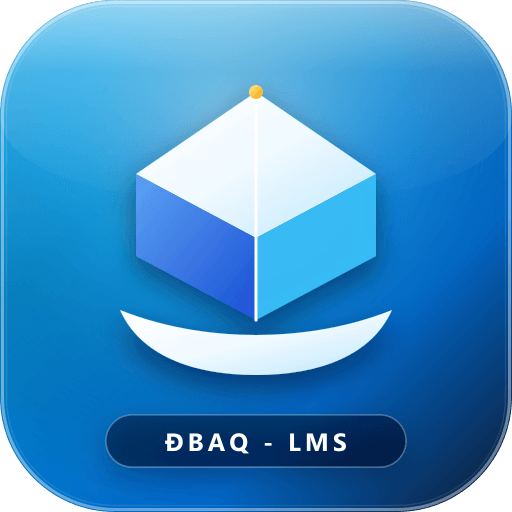
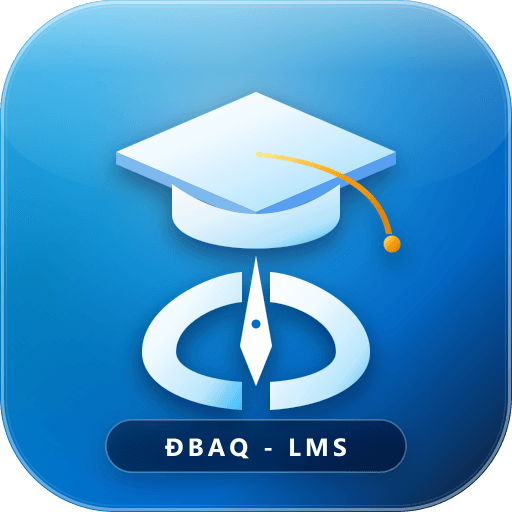
feat(branding): restore academic cap and pen nib emblem with modern ĐBAQ - LMS glass box and update preview card

Changed region(s): [[0.1875, 0.1562, 0.8125, 0.9375]]

diff --git a/scripts/generate-assets.js b/scripts/generate-assets.js
@@ -3,7 +3,7 @@ const path = require('path');
 const sharp = require('sharp');
 
 // =========================================================================
-// 1. ICON / LOGO (512x512) - MINIMALIST LUXURY "ĐBAQ - LMS"
+// 1. MASTER ICON (512x512) - ACADEMIC CAP + PEN NIB + ĐBAQ - LMS BOX
 // =========================================================================
 const logoSvg = `<svg xmlns="http://www.w3.org/2000/svg" viewBox="0 0 512 512" width="512" height="512">
   <defs>
@@ -15,42 +15,38 @@ const logoSvg = `<svg xmlns="http://www.w3.org/2000/svg" viewBox="0 0 512 512" w
       <stop offset="100%" stop-color="#0f172a"/>
     </linearGradient>
 
-    <!-- Top Radiant Light Aura -->
+    <!-- Top Radiant Ambient Glow -->
     <radialGradient id="topGlow" cx="45%" cy="25%" r="75%">
       <stop offset="0%" stop-color="#ffffff" stop-opacity="0.45"/>
       <stop offset="45%" stop-color="#38bdf8" stop-opacity="0.25"/>
       <stop offset="100%" stop-color="#000000" stop-opacity="0"/>
     </radialGradient>
 
-    <!-- Specular Highlight Arc -->
+    <!-- Glass Specular Highlight Arc -->
     <linearGradient id="glassSheen" x1="0%" y1="0%" x2="0%" y2="100%">
       <stop offset="0%" stop-color="#ffffff" stop-opacity="0.5"/>
       <stop offset="35%" stop-color="#ffffff" stop-opacity="0.15"/>
       <stop offset="100%" stop-color="#ffffff" stop-opacity="0"/>
     </linearGradient>
 
-    <!-- Metallic Platinum / Ice Gradient for Emblem -->
-    <linearGradient id="platGrad" x1="0%" y1="0%" x2="100%" y2="100%">
+    <!-- Metallic Emblem Platinum Gradient -->
+    <linearGradient id="emblemGrad" x1="0%" y1="0%" x2="100%" y2="100%">
       <stop offset="0%" stop-color="#ffffff"/>
-      <stop offset="50%" stop-color="#f0f9ff"/>
-      <stop offset="100%" stop-color="#bae6fd"/>
+      <stop offset="35%" stop-color="#f0f9ff"/>
+      <stop offset="75%" stop-color="#bae6fd"/>
+      <stop offset="100%" stop-color="#38bdf8"/>
     </linearGradient>
 
-    <!-- Facet Shadow Gradient -->
-    <linearGradient id="facetDark" x1="0%" y1="0%" x2="100%" y2="100%">
-      <stop offset="0%" stop-color="#60a5fa"/>
-      <stop offset="100%" stop-color="#1d4ed8"/>
-    </linearGradient>
-
-    <!-- Golden Spark Accent -->
-    <linearGradient id="goldAccent" x1="0%" y1="0%" x2="100%" y2="100%">
+    <!-- Golden Star & Tassel Gradient -->
+    <linearGradient id="goldGrad" x1="0%" y1="0%" x2="100%" y2="100%">
       <stop offset="0%" stop-color="#fef08a"/>
-      <stop offset="100%" stop-color="#f59e0b"/>
+      <stop offset="50%" stop-color="#f59e0b"/>
+      <stop offset="100%" stop-color="#d97706"/>
     </linearGradient>
 
     <!-- Soft Depth Shadow -->
     <filter id="iconDepth" x="-20%" y="-20%" width="140%" height="140%">
-      <feDropShadow dx="0" dy="12" stdDeviation="14" flood-color="#020617" flood-opacity="0.5"/>
+      <feDropShadow dx="0" dy="10" stdDeviation="12" flood-color="#020617" flood-opacity="0.5"/>
     </filter>
   </defs>
 
@@ -65,33 +61,40 @@ const logoSvg = `<svg xmlns="http://www.w3.org/2000/svg" viewBox="0 0 512 512" w
   <rect x="2.5" y="2.5" width="507" height="507" rx="112.5" fill="none" stroke="rgba(255,255,255,0.4)" stroke-width="3"/>
   <rect x="6.5" y="6.5" width="499" height="499" rx="108.5" fill="none" stroke="rgba(255,255,255,0.1)" stroke-width="1.5"/>
 
-  <!-- Minimalist High-End Geometric Emblem (The Crown of Knowledge / Prism AQ) -->
+  <!-- MAIN EMBLEM: Academic Mortarboard + Stylized Pen Nib & Knowledge Wings -->
   <g filter="url(#iconDepth)">
-    <!-- Central Modern Apex (Stylized Diamond Mortarboard & Rising Peak) -->
-    <!-- Center Peak -->
-    <polygon points="256,92 376,174 256,238 136,174" fill="url(#platGrad)" />
-    <!-- Left Facet -->
-    <polygon points="136,174 256,238 256,320 136,256" fill="url(#facetDark)" opacity="0.9" />
-    <!-- Right Facet -->
-    <polygon points="376,174 256,238 256,320 376,256" fill="#38bdf8" opacity="0.95" />
-    <!-- Central Vertical Accent Blade -->
-    <line x1="256" y1="92" x2="256" y2="320" stroke="#ffffff" stroke-width="3" stroke-linecap="round" />
+    <!-- Academic Mortarboard Rhombus Top -->
+    <polygon points="256,92 396,152 256,212 116,152" fill="url(#emblemGrad)" />
+    
+    <!-- Cap Rim/Underside depth -->
+    <polygon points="116,152 256,212 256,224 116,164" fill="#93c5fd" opacity="0.75" />
+    <polygon points="396,152 256,212 256,224 396,164" fill="#60a5fa" opacity="0.85" />
 
-    <!-- Modern Ribbon Wings uniting the base (Representing Open Book & Infinite Progress) -->
-    <path d="M 120 310 C 170 330 220 335 256 335 C 292 335 342 330 392 310 C 372 355 320 375 256 375 C 192 375 140 355 120 310 Z" fill="url(#platGrad)"/>
+    <!-- Cap Skullcap -->
+    <path d="M 172 184 Q 256 244 340 184 L 340 214 C 340 260 172 260 172 214 Z" fill="url(#emblemGrad)" opacity="0.95"/>
 
-    <!-- Subtle Golden Star Sparkle at Top Peak -->
-    <circle cx="256" cy="92" r="7" fill="url(#goldAccent)"/>
+    <!-- Academic Tassel with Golden Star Badge -->
+    <path d="M 256 152 Q 380 165 392 234 L 386 234 Q 374 170 256 156 Z" fill="url(#goldGrad)"/>
+    <circle cx="392" cy="244" r="8.5" fill="url(#goldGrad)"/>
 
-    <!-- CLEAN, MODERN BRAND TEXT: ĐBAQ - LMS -->
-    <!-- Pill Background for Text -->
-    <rect x="106" y="415" width="300" height="52" rx="26" fill="rgba(2, 6, 23, 0.45)" stroke="rgba(255, 255, 255, 0.25)" stroke-width="1.5"/>
-    <text x="256" y="451" text-anchor="middle" font-family="'Segoe UI', Arial, sans-serif" font-size="25" font-weight="800" letter-spacing="4" fill="#ffffff">ĐBAQ - LMS</text>
+    <!-- Open Book / Stylized Dynamic Wings (Representing A & Q) -->
+    <!-- Left Wing -->
+    <path d="M 142 352 C 142 306 208 274 242 272 L 242 302 C 218 304 176 322 176 352 C 176 370 210 380 242 382 L 242 410 C 180 406 142 382 142 352 Z" fill="url(#emblemGrad)"/>
+    <!-- Right Wing -->
+    <path d="M 370 352 C 370 306 304 274 270 272 L 270 302 C 294 304 336 322 336 352 C 336 370 302 380 270 382 L 270 410 C 332 406 370 382 370 352 Z" fill="url(#emblemGrad)"/>
+
+    <!-- Central Knowledge Pen Nib Spire -->
+    <polygon points="256,256 272,346 256,386 240,346" fill="#ffffff" />
+    <circle cx="256" cy="324" r="4.5" fill="#0066cc"/>
+
+    <!-- BEAUTIFUL LIQUID GLASS BOX: ĐBAQ - LMS -->
+    <rect x="106" y="420" width="300" height="52" rx="26" fill="rgba(2, 6, 23, 0.45)" stroke="rgba(255, 255, 255, 0.25)" stroke-width="1.5"/>
+    <text x="256" y="456" text-anchor="middle" font-family="'Segoe UI', Arial, sans-serif" font-size="25" font-weight="800" letter-spacing="4" fill="#ffffff">ĐBAQ - LMS</text>
   </g>
 </svg>`;
 
 // =========================================================================
-// 2. HORIZONTAL SOCIAL / ZALO PREVIEW (1200x630) - CLEAN, ELEGANT, LUXURY
+// 2. HORIZONTAL ZALO / SOCIAL PREVIEW CARD (1200x630)
 // =========================================================================
 const previewSvg = `<svg xmlns="http://www.w3.org/2000/svg" viewBox="0 0 1200 630" width="1200" height="630">
   <defs>
@@ -111,17 +114,11 @@ const previewSvg = `<svg xmlns="http://www.w3.org/2000/svg" viewBox="0 0 1200 63
       <stop offset="100%" stop-color="#000000" stop-opacity="0"/>
     </radialGradient>
 
-    <!-- Top Left Accent Glow -->
-    <radialGradient id="cornerAura" cx="15%" cy="15%" r="40%">
-      <stop offset="0%" stop-color="#38bdf8" stop-opacity="0.2"/>
-      <stop offset="100%" stop-color="#000000" stop-opacity="0"/>
-    </radialGradient>
-
-    <!-- App Icon Gradient -->
+    <!-- Mini Icon Background -->
     <linearGradient id="miniIconBg" x1="0%" y1="0%" x2="100%" y2="100%">
       <stop offset="0%" stop-color="#38bdf8"/>
-      <stop offset="35%" stop-color="#0284c7"/>
-      <stop offset="75%" stop-color="#0066cc"/>
+      <stop offset="30%" stop-color="#0284c7"/>
+      <stop offset="70%" stop-color="#0066cc"/>
       <stop offset="100%" stop-color="#0f172a"/>
     </linearGradient>
 
@@ -132,29 +129,28 @@ const previewSvg = `<svg xmlns="http://www.w3.org/2000/svg" viewBox="0 0 1200 63
       <stop offset="100%" stop-color="#bae6fd"/>
     </linearGradient>
 
-    <!-- Facet Gradients for mini emblem -->
-    <linearGradient id="miniPlat" x1="0%" y1="0%" x2="100%" y2="100%">
+    <linearGradient id="emblemMini" x1="0%" y1="0%" x2="100%" y2="100%">
       <stop offset="0%" stop-color="#ffffff"/>
       <stop offset="100%" stop-color="#bae6fd"/>
     </linearGradient>
-    <linearGradient id="miniFacet" x1="0%" y1="0%" x2="100%" y2="100%">
-      <stop offset="0%" stop-color="#60a5fa"/>
-      <stop offset="100%" stop-color="#1d4ed8"/>
+
+    <linearGradient id="goldStar" x1="0%" y1="0%" x2="100%" y2="100%">
+      <stop offset="0%" stop-color="#fef08a"/>
+      <stop offset="100%" stop-color="#f59e0b"/>
     </linearGradient>
 
     <!-- Soft Depth Shadow -->
     <filter id="cardShadow" x="-20%" y="-20%" width="140%" height="140%">
-      <feDropShadow dx="0" dy="18" stdDeviation="24" flood-color="#000000" flood-opacity="0.65"/>
+      <feDropShadow dx="0" dy="16" stdDeviation="22" flood-color="#000000" flood-opacity="0.65"/>
     </filter>
     <filter id="iconGlow" x="-30%" y="-30%" width="160%" height="160%">
-      <feDropShadow dx="0" dy="0" stdDeviation="20" flood-color="#0284c7" flood-opacity="0.55"/>
+      <feDropShadow dx="0" dy="0" stdDeviation="18" flood-color="#0284c7" flood-opacity="0.55"/>
     </filter>
   </defs>
 
   <!-- 1. Background -->
   <rect width="1200" height="630" fill="url(#ogBgGrad)"/>
   <rect width="1200" height="630" fill="url(#centerAura)"/>
-  <rect width="1200" height="630" fill="url(#cornerAura)"/>
 
   <!-- 2. Subtle Outer Apple Glass Border -->
   <rect x="20" y="20" width="1160" height="590" rx="36" fill="none" stroke="rgba(255,255,255,0.12)" stroke-width="2"/>
@@ -163,7 +159,7 @@ const previewSvg = `<svg xmlns="http://www.w3.org/2000/svg" viewBox="0 0 1200 63
   <!-- 3. CENTERED LUXURY BRAND COMPOSITION -->
   <g transform="translate(600, 75)" text-anchor="middle">
     
-    <!-- A. Centered Brand App Icon (124x124) -->
+    <!-- A. Centered Brand App Icon with Mortarboard + Pen (124x124) -->
     <g transform="translate(-62, 0)" filter="url(#iconGlow)">
       <!-- Squircle Base -->
       <rect width="124" height="124" rx="32" fill="url(#miniIconBg)"/>
@@ -172,39 +168,44 @@ const previewSvg = `<svg xmlns="http://www.w3.org/2000/svg" viewBox="0 0 1200 63
       <!-- Top Sheen -->
       <path d="M 0 32 C 0 14 14 0 32 0 L 92 0 C 110 0 124 14 124 32 C 124 48 95 55 62 55 C 29 55 0 48 0 32 Z" fill="#ffffff" opacity="0.35"/>
 
-      <!-- Mini Prism Emblem -->
-      <g transform="translate(62, 24)" filter="url(#cardShadow)">
-        <polygon points="0,0 28,19 0,34 -28,19" fill="url(#miniPlat)" />
-        <polygon points="-28,19 0,34 0,54 -28,39" fill="url(#miniFacet)" opacity="0.9" />
-        <polygon points="28,19 0,34 0,54 28,39" fill="#38bdf8" opacity="0.95" />
-        <line x1="0" y1="0" x2="0" y2="54" stroke="#ffffff" stroke-width="1.5" />
-        <!-- Ribbon Base -->
-        <path d="M -30 52 C -18 57 0 58 0 58 C 0 58 18 57 30 52 C 25 63 12 68 0 68 C -12 68 -25 63 -30 52 Z" fill="url(#miniPlat)"/>
-        <!-- Star spark -->
-        <circle cx="0" cy="0" r="2.5" fill="#f59e0b"/>
+      <!-- Mini Mortarboard + Pen inside icon -->
+      <g transform="translate(62, 22)">
+        <!-- Cap Top -->
+        <polygon points="0,0 34,15 0,30 -34,15" fill="url(#emblemMini)" />
+        <polygon points="-34,15 0,30 0,33 -34,18" fill="#93c5fd" />
+        <polygon points="34,15 0,30 0,33 34,18" fill="#60a5fa" />
+        <!-- Tassel Star -->
+        <circle cx="33" cy="22" r="2.5" fill="#f59e0b" />
+        <!-- Wings & Pen Spire -->
+        <path d="M -26 50 C -12 42 0 42 0 42 C 0 42 12 42 26 50 C 20 58 10 62 0 62 C -10 62 -20 58 -26 50 Z" fill="url(#emblemMini)" opacity="0.9"/>
+        <polygon points="0,34 3,54 0,60 -3,54" fill="#ffffff" />
       </g>
 
       <!-- Mini Monogram inside icon -->
-      <text x="62" y="109" text-anchor="middle" font-family="'Segoe UI', Arial, sans-serif" font-size="11" font-weight="900" letter-spacing="2" fill="#ffffff">ĐBAQ</text>
+      <text x="62" y="108" text-anchor="middle" font-family="'Segoe UI', Arial, sans-serif" font-size="11" font-weight="900" letter-spacing="1.5" fill="#ffffff">ĐBAQ</text>
     </g>
 
-    <!-- B. Main Monogram Title: ĐBAQ - LMS -->
-    <text x="0" y="215" font-family="'Segoe UI', Arial, sans-serif" font-size="64" font-weight="900" letter-spacing="4" fill="url(#titleMetal)" filter="url(#cardShadow)">
-      ĐBAQ - LMS
-    </text>
+    <!-- B. Main Monogram Title: ĐBAQ - LMS (In Beautiful Glass Box) -->
+    <g transform="translate(0, 195)">
+      <!-- Pill Box -->
+      <rect x="-190" y="-48" width="380" height="74" rx="37" fill="rgba(2, 6, 23, 0.55)" stroke="rgba(255, 255, 255, 0.28)" stroke-width="2" filter="url(#cardShadow)"/>
+      <text x="0" y="3" text-anchor="middle" font-family="'Segoe UI', Arial, sans-serif" font-size="44" font-weight="900" letter-spacing="5" fill="url(#titleMetal)">
+        ĐBAQ - LMS
+      </text>
+    </g>
 
     <!-- C. Full Educator Name -->
-    <text x="0" y="275" font-family="'Segoe UI', Arial, sans-serif" font-size="34" font-weight="700" letter-spacing="0.5" fill="#ffffff">
+    <text x="0" y="292" font-family="'Segoe UI', Arial, sans-serif" font-size="34" font-weight="700" letter-spacing="0.5" fill="#ffffff">
       Gia sư Đào Bá Anh Quân
     </text>
 
     <!-- D. Subtitle Tagline -->
-    <text x="0" y="322" font-family="'Segoe UI', Arial, sans-serif" font-size="20" font-weight="400" fill="#94a3b8">
+    <text x="0" y="338" font-family="'Segoe UI', Arial, sans-serif" font-size="20" font-weight="400" fill="#94a3b8">
       Hệ thống Học tập &amp; Luyện thi Trực tuyến
     </text>
 
     <!-- E. Minimalist Feature Pills (Centered row) -->
-    <g transform="translate(0, 360)">
+    <g transform="translate(0, 375)">
       <!-- Pill 1 -->
       <g transform="translate(-250, 0)">
         <rect x="0" y="0" width="150" height="38" rx="19" fill="rgba(255,255,255,0.06)" stroke="rgba(255,255,255,0.15)" stroke-width="1"/>
@@ -223,7 +224,7 @@ const previewSvg = `<svg xmlns="http://www.w3.org/2000/svg" viewBox="0 0 1200 63
     </g>
 
     <!-- F. Minimalist URL Badge at bottom -->
-    <g transform="translate(0, 440)">
+    <g transform="translate(0, 445)">
       <rect x="-140" y="0" width="280" height="36" rx="18" fill="rgba(2, 132, 199, 0.15)" stroke="rgba(56, 189, 248, 0.35)" stroke-width="1.2"/>
       <text x="0" y="23" text-anchor="middle" font-family="'Segoe UI', Arial, sans-serif" font-size="14" font-weight="700" letter-spacing="1" fill="#38bdf8">
         dbaq-lms.vercel.app

diff --git a/src/components/ui/BrandLogo.tsx b/src/components/ui/BrandLogo.tsx
@@ -40,7 +40,7 @@ export function BrandLogo({
         <div className="absolute -inset-2 bg-gradient-to-tr from-[#0284c7] to-[#38bdf8] opacity-70 blur-lg pointer-events-none -z-10 animate-pulse-slow" />
       )}
 
-      {/* High-fidelity Vector SVG Logo: Minimalist Luxury ĐBAQ - LMS */}
+      {/* Vector SVG: Academic Cap + Stylized Pen Nib + ĐBAQ - LMS Box */}
       <svg
         viewBox="0 0 512 512"
         className="w-full h-full"
@@ -67,20 +67,17 @@ export function BrandLogo({
             <stop offset="100%" stopColor="#ffffff" stopOpacity="0" />
           </linearGradient>
 
-          <linearGradient id="brandPlatGrad" x1="0%" y1="0%" x2="100%" y2="100%">
+          <linearGradient id="brandEmblemGrad" x1="0%" y1="0%" x2="100%" y2="100%">
             <stop offset="0%" stopColor="#ffffff" />
-            <stop offset="50%" stopColor="#f0f9ff" />
-            <stop offset="100%" stopColor="#bae6fd" />
+            <stop offset="35%" stopColor="#f0f9ff" />
+            <stop offset="75%" stopColor="#bae6fd" />
+            <stop offset="100%" stopColor="#38bdf8" />
           </linearGradient>
 
-          <linearGradient id="brandFacetDark" x1="0%" y1="0%" x2="100%" y2="100%">
-            <stop offset="0%" stopColor="#60a5fa" />
-            <stop offset="100%" stopColor="#1d4ed8" />
-          </linearGradient>
-
-          <linearGradient id="brandGold" x1="0%" y1="0%" x2="100%" y2="100%">
+          <linearGradient id="brandGoldGrad" x1="0%" y1="0%" x2="100%" y2="100%">
             <stop offset="0%" stopColor="#fef08a" />
-            <stop offset="100%" stopColor="#f59e0b" />
+            <stop offset="50%" stopColor="#f59e0b" />
+            <stop offset="100%" stopColor="#d97706" />
           </linearGradient>
 
           <filter id="brandShadow" x="-20%" y="-20%" width="140%" height="140%">
@@ -92,13 +89,13 @@ export function BrandLogo({
         <rect width="512" height="512" fill="url(#brandIconBg)" />
         <rect width="512" height="512" fill="url(#brandTopGlow)" />
 
-        {/* Glass Arc */}
+        {/* Top Glass Arc */}
         <path
           d="M 0 115 C 0 51.5 51.5 0 115 0 L 397 0 C 460.5 0 512 51.5 512 115 C 512 175 390 205 256 205 C 122 205 0 175 0 115 Z"
           fill="url(#brandGlassSheen)"
         />
 
-        {/* Apple Thin Border */}
+        {/* Apple Specular Thin Border */}
         <rect
           x="2.5"
           y="2.5"
@@ -110,27 +107,42 @@ export function BrandLogo({
           strokeWidth="6"
         />
 
-        {/* Geometric Emblem: The Apex Crown & Ribbon of Knowledge */}
+        {/* Academic Mortarboard + Pen Nib + Wings */}
         <g filter="url(#brandShadow)">
-          {/* Top Diamond Apex */}
-          <polygon points="256,92 376,174 256,238 136,174" fill="url(#brandPlatGrad)" />
-          <polygon points="136,174 256,238 256,320 136,256" fill="url(#brandFacetDark)" opacity="0.9" />
-          <polygon points="376,174 256,238 256,320 376,256" fill="#38bdf8" opacity="0.95" />
-          <line x1="256" y1="92" x2="256" y2="320" stroke="#ffffff" strokeWidth="4" strokeLinecap="round" />
+          {/* Cap Top Rhombus */}
+          <polygon points="256,92 396,152 256,212 116,152" fill="url(#brandEmblemGrad)" />
+          <polygon points="116,152 256,212 256,224 116,164" fill="#93c5fd" opacity="0.75" />
+          <polygon points="396,152 256,212 256,224 396,164" fill="#60a5fa" opacity="0.85" />
 
-          {/* Ribbon Wings of Infinite Learning */}
+          {/* Skullcap */}
           <path
-            d="M 120 310 C 170 330 220 335 256 335 C 292 335 342 330 392 310 C 372 355 320 375 256 375 C 192 375 140 355 120 310 Z"
-            fill="url(#brandPlatGrad)"
+            d="M 172 184 Q 256 244 340 184 L 340 214 C 340 260 172 260 172 214 Z"
+            fill="url(#brandEmblemGrad)"
+            opacity="0.95"
           />
 
-          {/* Golden Star at Apex */}
-          <circle cx="256" cy="92" r="8" fill="url(#brandGold)" />
+          {/* Golden Tassel & Star */}
+          <path d="M 256 152 Q 380 165 392 234 L 386 234 Q 374 170 256 156 Z" fill="url(#brandGoldGrad)" />
+          <circle cx="392" cy="244" r="8.5" fill="url(#brandGoldGrad)" />
 
-          {/* Text Badge: ĐBAQ - LMS */}
+          {/* Stylized Open Book Wings */}
+          <path
+            d="M 142 352 C 142 306 208 274 242 272 L 242 302 C 218 304 176 322 176 352 C 176 370 210 380 242 382 L 242 410 C 180 406 142 382 142 352 Z"
+            fill="url(#brandEmblemGrad)"
+          />
+          <path
+            d="M 370 352 C 370 306 304 274 270 272 L 270 302 C 294 304 336 322 336 352 C 336 370 302 380 270 382 L 270 410 C 332 406 370 382 370 352 Z"
+            fill="url(#brandEmblemGrad)"
+          />
+
+          {/* Central Pen Nib Spire */}
+          <polygon points="256,256 272,346 256,386 240,346" fill="#ffffff" />
+          <circle cx="256" cy="324" r="5" fill="#0066cc" />
+
+          {/* Liquid Glass Box for ĐBAQ - LMS */}
           <rect
             x="106"
-            y="415"
+            y="420"
             width="300"
             height="52"
             rx="26"
@@ -140,7 +152,7 @@ export function BrandLogo({
           />
           <text
             x="256"
-            y="451"
+            y="456"
             textAnchor="middle"
             fontFamily="'Segoe UI', Arial, sans-serif"
             fontSize="25"
